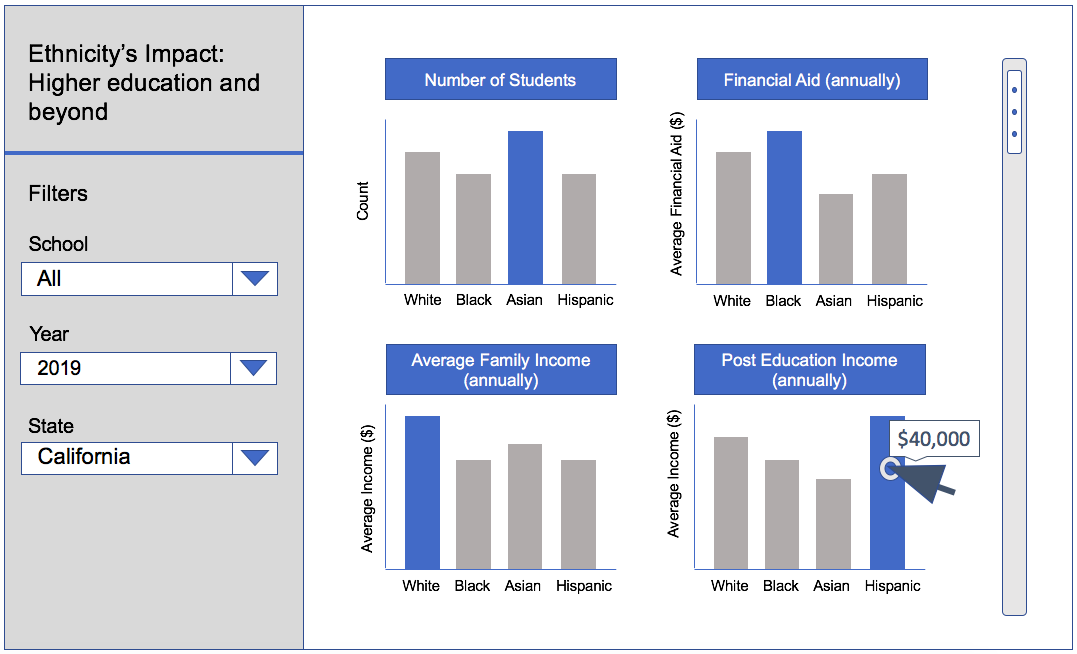
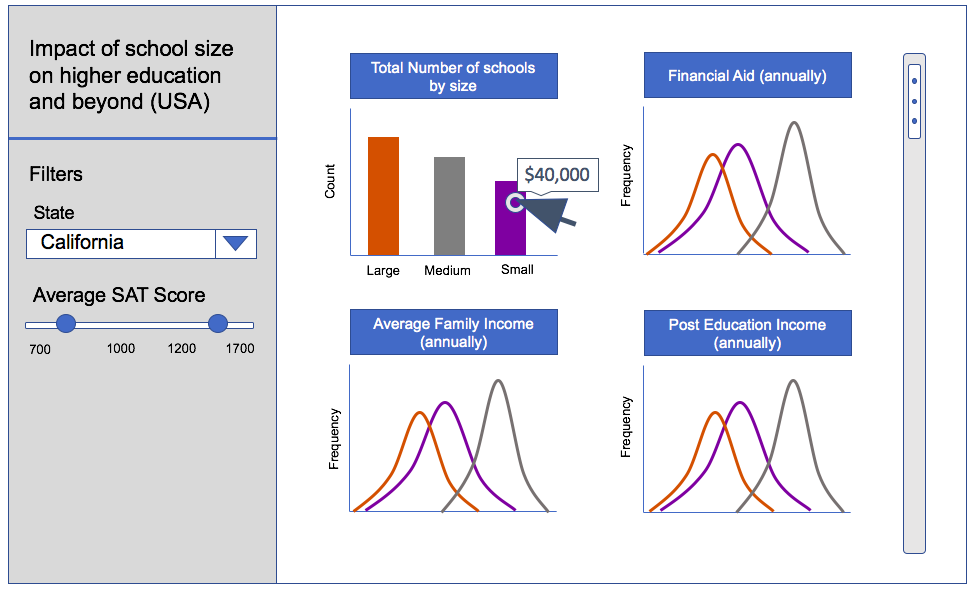
updated the readme and sketch to aggregate based on school size

diff --git a/README.md b/README.md
@@ -1,32 +1,31 @@
-## Beyond education!
-### Helping students choose their future!
+## Impact of School Size on Higher Education
 
 Authors: 
 [Sarah Watts](https://github.com/smwatts)
 [Socorro Dominguez](https://github.com/sedv8808)
 
-
 ### Milestone 1
 
 #### Overview
 
-Many people value higher education for an unlimited number of reasons: Some link it to becoming able to solve problems, others to learning how to work with different kinds of people, and some others think it will teach them how to handle real life tasks. It has also been considered an asset to have in order to pursue a more lucrative career with a better salary. These monetary benefits might allow a person to increase their living condition or to step out of poverty. 
+Many people value higher education for an unlimited number of reasons; some link it to becoming able to solve problems, others to learning how to work with different kinds of people, and others think it will teach them how to handle real life tasks. It has also been considered an asset to have in order to pursue a more lucrative career. These monetary benefits might allow a person to increase their living condition or to step out of poverty. 
 
-However, how do we choose which school will provide us with the tools that we need for the future? 
+However, we know that not all post-secondary institutions are created equal. Many factors contribute to the prosperity of students attending these post-secondary institutions. To narrow our focus, we decided to examine one dimension that many students ponder, what size school should I attend?
 
-Thousands of students in the United States ask themselves this question every year. And they should be aware that there are different kinds of postsecondary institution throughout the country that offer a wide range of programs. 
+Using the data collected in the College Scorecard Project, we want to visually explore how the size of a school impacts students. We will create an app that will be used to show the distribution of factors students care about (financial aid, earning potential etc.), broken down by the size of a school. We will also allow users to explore different aspects of this data by filtering and re-ordering on different variables such as their state or entrance SAT scores that can contribute to the performance of a school size for each factor.
 
-Choosing the right institution is just as important as choosing the right career. Not all students start off on the same foot. Some students might require more financial aid than others depending on their families' income. Some others might be interested in the demographics of the school: what is the age of most of their to be classmates or how many females access these programs. Most students would likely be interested into looking at what their future incomes might look like if partaking into these cohorts. 
-
-The College Scorecard Project gives us information to compare how well postsecondary institutions prepare their students in order to be successful. We can compare the cost of education and how many graduates are working even several years after entry in the institution. 
+Our definition of school size is as follows (in terms of undergraduate students);
+Large school: 15,000 +   
+Medium school: 5,000-15,000   
+Small school: 0-5,000   
 
 #### Description of the data
 
-The data available from this website covers a wide range of topics. The following is just a general overview of this categories and as the app is in development, we will just keep the variables that we need: 
+The data available from the College Scorecard Project covers a wide range of topics. The following is a general overview of the topics available in our dataset, as well as some sample features: 
 -	Root:  Basic information in the data set.
   o	Different IDs for each school.
 
--	<u>School:</u> Basic descriptive information about the school in question.
+-	<u>School:</u> Basic descriptive information for each school.
   o	Name
   o	City
   o	State Postcode
@@ -40,16 +39,17 @@ The data available from this website covers a wide range of topics. The followin
   o	Age at entry
   o	Veteran status
 
--	<u>Aid:</u> Financial aid can provide an important look at how much debt students take on to attend the college, the share of students who receive federal grants and loans to help pay for college, and how much the typical student can expect to owe each month after graduating.
+-	<u>Aid:</u> Financial aid can provide an important look at how much debt students take on to attend the college. This includes the share of students who receive federal grants and how much the typical student can expect to owe each month after graduating.
   o	Share of students who received a federal loan while in school
 
 -	<u>Earnings:</u> One of the most common reasons for students to go to college is the expansion of employment opportunities: 
   o	Average and Median Earnings, Disaggregated by Student Subgroups
   o	Share of Former Students Earning Over $25,000
 
-https://collegescorecard.ed.gov/assets/FullDataDocumentation.pdf
+A complete description of the dataset can be found here: [https://collegescorecard.ed.gov/assets/FullDataDocumentation.pdf](https://collegescorecard.ed.gov/assets/FullDataDocumentation.pdf). This dataset provides access to information for 8,000 schools and 2,000 features.
+----------------------------
 
-A prototype script has been written by Sarah Watts and is included in this repository. This script loads the data and keeps the following variables:
+To begin understanding the impact of school size on different features, we have created a data cleaning script. The data cleaning script can be found in [src/01_load_and_clean_data.R](src/01_load_and_clean_data.R). This script loads the data and keeps the following variables:
 
 - <u>STABBR:</u> Code of State [Character]
 - <u>loan_ever:</u> Percentage of students with a loan [Float]
@@ -58,22 +58,25 @@ A prototype script has been written by Sarah Watts and is included in this repos
 - <u>md_faminc:</u> Medium family income [Float]
 - <u>md_earn_wne_p10:</u> Medium wage 10 years after entry [Float]
 
-The data that we are keeping will change as the app is being developed. 
+In the next iteration of this script, we will add in the following features, creating a complete set of features for our app:
+
+- <u>UG: </u> Enrollment of all undergraduate students [Integer]
+- <u>SAT_AVG: </u> Average SAT equivalent score of students admitted [Float]
+
 #### Usage scenario & tasks / question to explore
 
 <u>**Scenario I:**</u><br>
-Sage is a councelour who helps high school students pursue higher education in several states. From personal experience, Sage knows that it is not always possible to pursue higher education at all institutions as some are not affordable for everyone. Sages tries to help students assess their possibile choices: they should consider mostly based on their location, families' current income and if there is any financial aid or loans available. Sage would also like to provide an estimate of the expected income a student would have 10 years after entering the school. This would motivate a lot of them to purusue education even if that means to ask for a loan. 
-Sage knows some students might feel scared of going back to school as they age or if they are married. Hence, an app that informs of the average entry age or marital status would also be helpful as a lot of students would realize that many people take a break between high school and higher education or go back even after marriage. Sage really believes into convincing everyone to pursue a higher education to help them achieve their dreams and improve their current financial situation - regardless of what it currently looks like.
+Sage is a high school counselor who helps high school students pursue higher education in several states. She wants to help students navigate post-secondary education. This includes helping students understand what size school is right for them. Using factors such as the student's SAT score and the state they want to attend post-secondary school in, she would like to understand how soci-economic factors change via school choice.
 
 <u>**Scenario II:**</u><br>
-Mary is a policy maker in the Ministry of Education in the United States. She understands that getting into higher education is crucial for a wide range of young nationals in order to step out of poverty or improve their current living situation. She has empirically identified that females tend to be more marginalized than others and she would want to change this. She would want to show to different financial institutions that providing financial aid to females to help them pursue higher education helps them step out of poverty. She would use our app to shows what a female's family income currently looks like and how her income improves x number of years after entering college/university. That way, she would look to convince banks and schools to offer more loans, incentives, and help to females who want to purusue higher education. If successful, Mary would want to take this initiative forward to create financial aid directed to veterans or people belonging to different racial groups. 
+Mary is a policy maker in the Ministry of Education in the United States. She wants to understand the impact that school size has on many soci-economic factors for Americans. Specifically, she would like to know where she needs to focus resources for the highest payoff. Are the small schools in California suffering on metrics that larger schools are excelling in? She can work towards establishing programs that put more resources towards supporting these smaller schools.
 
 
 #### Description of your app & sketch
 
-The app contains a landing page that shows the average or count of our dataset factors (financial aid, average family income, post education income) broken down by gender and ethnic groups (white, black, asian, hispanic) in the US in bar charts. 
+The app contains a landing page that shows the distribution of our factors (financial aid, average family income, post education income) in the US, aggregated by school size (small, medium, large). 
 
-From a dropdown list, users are able to filter based on state, school, and family income (identify poverty rate). 
+From a dropdown list, users are able to filter for a particular state of interest. They are also able to filter by the average SAT score per school, to get an understanding of how the academic standard of a school varies performance of our factors by school size.
 
 An example sketch is shown below: 
 ![Alt text](images/sketch_of_college_scorecard.png?raw=true "App sketch")
